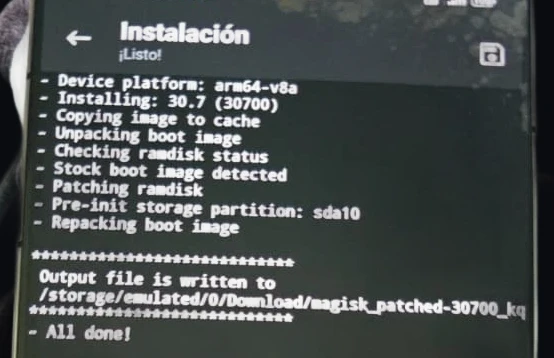
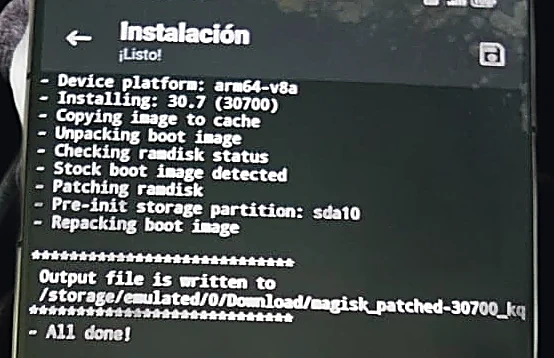
Break the guide into granular numbered sub-steps, sharpen all images
- Sharpen all 8 existing guide images (unsharp mask + higher-quality
  webp re-encode) so the on-screen text reads cleanly instead of soft.
- Add a new real screenshot of the toolbox's actual opening screen
  (the BFF splash + the real "path has spaces" error we hit), used as
  a worked snag/fix example in a new Fase 03 sub-step.
- Restructure Fases 03-06 into small numbered sub-steps (3.1, 3.2...)
  each with its own title, a "deberias ver" expectation line, and
  inline screenshots/snag-fix pairs where relevant, instead of long
  paragraph blocks — aimed at readers with no prior technical context.
- Drop loading="lazy" on guide images (images are small; removes any
  ambiguity about whether a given screenshot has rendered yet).

diff --git a/src/pages/RootRedMagic11Pro.jsx b/src/pages/RootRedMagic11Pro.jsx
@@ -10,14 +10,30 @@ import magiskSuperuser from '../assets/redmagic-guide/magisk-superuser.webp'
 import powershellRoot from '../assets/redmagic-guide/powershell-root.webp'
 import homeBooted from '../assets/redmagic-guide/home-booted.webp'
 import toolboxSession from '../assets/redmagic-guide/toolbox-session.webp'
+import toolboxOpening from '../assets/redmagic-guide/toolbox-opening.webp'
 
 // Foto real con su etiqueta, para las capturas del proceso (no mockups).
 function Shot({ src, alt, caption, wide }) {
   return (
     <figure className={`rm-shot${wide ? ' wide' : ''}`}>
-      <img src={src} alt={alt} loading="lazy" />
+      <img src={src} alt={alt} />
       {caption && <figcaption>{caption}</figcaption>}
     </figure>
+  )
+}
+
+// Tarjeta de sub-paso numerado (ej. "3.1"), para desglosar una fase en acciones
+// chicas y concretas en vez de un bloque largo de texto.
+function SubStep({ n, title, children, expect }) {
+  return (
+    <div className="rm-substep">
+      <div className="rm-substep-head">
+        <span className="rm-substep-num">{n}</span>
+        <span className="rm-substep-title">{title}</span>
+      </div>
+      {children}
+      {expect && <div className="rm-expect"><b>Deberías ver:</b><span>{expect}</span></div>}
+    </div>
   )
 }
 
@@ -131,14 +147,37 @@ export default function RootRedMagic11Pro() {
 
         <section className="rm-phase" id="fase-3">
           <div className="rm-phase-head"><span className="rm-phase-num">03</span><div><h2>El primer intento (y por que probablemente falle)</h2><p className="sub">Esto nos paso a nosotros — es la parte que nadie te explica</p></div></div>
-          <p>La herramienta comunitaria para este modelo es <strong>ZTE Family Toolbox</strong> (ver Recursos). Tiene un menu con la opcion <code className="mono">0. 解锁BL</code> (Desbloquear Bootloader). Si tu build es reciente, muy probablemente va a terminar asi:</p>
-          <Term label="ZTE Family Toolbox">
-            刷入解锁程序...{'\n'}设置自动恢复出厂...{'\n'}<span className="fail">解锁失败。请加交流群反馈。</span>
-          </Term>
+          <p>La herramienta comunitaria para este modelo es <strong>ZTE Family Toolbox</strong> (ver seccion de Recursos, mas abajo, para el enlace). Vamos paso por paso con lo que vas a ver en pantalla:</p>
+
+          <div className="rm-substeps">
+            <SubStep n="3.1" title="Descomprime y abre el programa" expect="Una ventana negra con un logo hecho de texto (BFF) y un mensaje en chino.">
+              <p>Descomprime el <code className="mono">.7z</code> que descargaste y haz doble clic en el archivo <code className="mono">中兴家族工具箱.bat</code> (el icono con engranaje azul). Se abre una consola negra.</p>
+              <Shot src={toolboxOpening} alt="Ventana de inicio del ZTE Family Toolbox mostrando el logo BFF y un error de ruta con espacios" caption="Esto es lo primero que vas a ver al abrirlo." />
+              <div className="rm-snagfix">
+                <div className="line" />
+                <div className="boxes">
+                  <div className="rm-box snag"><span className="tag">Traba comun aqui mismo</span><p>Si la ventana se cierra sola o dice <code className="mono">工具箱路径中不允许有空格或英文括号</code> (&quot;la ruta no puede tener espacios&quot;), es porque la carpeta esta en una ruta con espacios — por ejemplo &quot;Mis Documentos&quot; o &quot;Nueva carpeta (2)&quot;.</p></div>
+                  <div className="rm-box fix"><span className="tag">Solucion</span><p>Mueve toda la carpeta del toolbox a una ruta corta y sin espacios, por ejemplo <code className="mono">C:\ZTE\</code>, y abrelo de nuevo desde ahi.</p></div>
+                </div>
+              </div>
+            </SubStep>
+
+            <SubStep n="3.2" title="Elige tu modelo de telefono" expect="Un menu numerado con varios modelos de RedMagic/Nubia. Escribe el numero del tuyo y presiona Enter.">
+              <p>El programa pregunta que telefono tienes. Para el REDMAGIC 11 Pro (NX809J), busca la linea que diga algo como <code className="mono">骁龙8E5 红魔11系列</code> (Snapdragon 8 Elite Gen5, serie RedMagic 11) — <strong>no</strong> elijas una que diga &quot;(不支持解锁)&quot; (no soporta desbloqueo), esas son para otros modelos.</p>
+            </SubStep>
+
+            <SubStep n="3.3" title="Ejecuta la opcion de desbloqueo" expect="Al final, un mensaje en rojo que dice 解锁失败 (desbloqueo fallido) — si tu build es reciente, esto es normal, sigue a la Fase 04.">
+              <p>En el menu principal escribe <code className="mono">0</code> y presiona Enter (esa opcion dice <code className="mono">解锁BL</code> = Desbloquear Bootloader). Confirma las advertencias que aparezcan presionando cualquier tecla. Si tu build es reciente, termina asi:</p>
+              <Term label="ZTE Family Toolbox">
+                刷入解锁程序...{'\n'}设置自动恢复出厂...{'\n'}<span className="fail">解锁失败。请加交流群反馈。</span>
+              </Term>
+            </SubStep>
+          </div>
+
           <div className="rm-snagfix">
             <div className="line" />
             <div className="boxes">
-              <div className="rm-box snag"><span className="tag">La traba real</span><p>&quot;解锁失败&quot; = <strong>desbloqueo fallido</strong>. El exploit que usa la herramienta (llamado <code className="mono">efisp</code>) depende de un error en el bootloader que Nubia <strong>ya corrigio en firmwares posteriores a la version 11.0.18</strong>. Si tu build es mas nuevo que eso — y casi todos los telefonos vendidos hoy lo son — el ataque simplemente no tiene con que funcionar. No es que lo hagas mal: la vulnerabilidad ya no esta en tu bootloader actual.</p></div>
+              <div className="rm-box snag"><span className="tag">La traba real (la del paso 3.3)</span><p>&quot;解锁失败&quot; = <strong>desbloqueo fallido</strong>. El exploit que usa la herramienta (llamado <code className="mono">efisp</code>) depende de un error en el bootloader que Nubia <strong>ya corrigio en firmwares posteriores a la version 11.0.18</strong>. Si tu build es mas nuevo que eso — y casi todos los telefonos vendidos hoy lo son — el ataque simplemente no tiene con que funcionar. No es que lo hagas mal: la vulnerabilidad ya no esta en tu bootloader actual.</p></div>
               <div className="rm-box fix"><span className="tag">La solucion</span><p>No hace falta reinstalar todo el sistema. Solo una particion pequenisima — el <code className="mono">abl</code> (menos de 300 KB) — necesita volver a una version vieja que si tenga el error. El resto del telefono se queda exactamente como esta. Fase 04.</p></div>
             </div>
           </div>
@@ -146,52 +185,84 @@ export default function RootRedMagic11Pro() {
 
         <section className="rm-phase" id="fase-4">
           <div className="rm-phase-head"><span className="rm-phase-num">04</span><div><h2>La solucion: downgrade quirurgico del ABL</h2><p className="sub">La parte que te ahorra el dinero que cobran los &quot;servicios&quot;</p></div></div>
-          <p><strong>Paso A — Conseguir el firmware viejo, de la fuente oficial.</strong> Nubia no lo anuncia, pero su servidor de descargas sigue sirviendo versiones antiguas si conoces la URL exacta (ver Recursos). Para nuestra region (Europa/EEA) usamos la version <code className="mono">11.0.16MR1_EA</code> — cualquier version 11.0.18 o anterior sirve.</p>
-          <p><strong>Paso B — Extraer solo la particion abl.</strong> El firmware viene como un <code className="mono">update.zip</code> con un <code className="mono">payload.bin</code> adentro (formato estandar de Android). No hace falta descomprimir los 9 GB enteros a mano: <strong>payload-dumper-go</strong> saca una sola particion en segundos.</p>
-          <Term label="PowerShell — PC" copy={'payload-dumper-go.exe -p abl -o C:\\OldAbl payload.bin'}>
-            <span className="prompt-char">PS&gt;</span> <span className="cmd">payload-dumper-go.exe -p abl -o C:\OldAbl payload.bin</span>{'\n'}abl (242 kB)  [=======================================] 100%
-          </Term>
-          <p><strong>Paso C — Flashear ese abl.img viejo, via modo 9008 (EDL).</strong> Esto NO se puede hacer con el bootloader actual bloqueado usando fastboot normal — por eso se usa EDL, un modo de bajo nivel del propio chip Qualcomm que no depende de Android ni de si el bootloader esta bloqueado. Desde ZTE Family Toolbox, opcion <code className="mono">12. 刷入任意分区</code> (flashear particion especifica), escribe el nombre de la particion y selecciona tu <code className="mono">abl.img</code> viejo. Repite para <code className="mono">abl_a</code> y <code className="mono">abl_b</code> (el telefono tiene dos copias, slot A y B).</p>
-          <div className="rm-callout">
-            <span className="tag">Como entrar a modo EDL</span>
-            <p>Con el telefono encendido y conectado: <code className="mono">adb reboot edl</code>. La pantalla se queda completamente negra — asi se ve EDL, sin interfaz. Si el PC no lo reconoce, instala el driver Qualcomm oficial (Fase 01) y revisa el Administrador de dispositivos: debe aparecer como &quot;Qualcomm HS-USB QDLoader 9008&quot;.</p>
+          <p>Esto son 3 pasos chicos. No hace falta reinstalar todo el telefono — solo movemos una pieza minuscula (menos de 300 KB) a una version anterior que si tiene el error que el exploit necesita.</p>
+
+          <div className="rm-substeps">
+            <SubStep n="4.1" title="Descarga el firmware viejo, de la fuente oficial" expect="Un archivo update.zip de varios GB descargandose desde rom.download.nubia.com.">
+              <p>Nubia no lo anuncia en su pagina, pero su servidor sigue sirviendo versiones antiguas si conoces la URL exacta (esta en la seccion Recursos, al final). Para la region Europa/EEA usamos la version <code className="mono">11.0.16MR1_EA</code> — cualquier version <strong>11.0.18 o anterior</strong> sirve igual.</p>
+            </SubStep>
+
+            <SubStep n="4.2" title="Extrae solo la pieza que necesitas (abl.img)" expect="abl (242 kB) [=====...] 100% — una carpeta nueva con un archivo abl.img adentro.">
+              <p>El firmware viene como un <code className="mono">update.zip</code> con un <code className="mono">payload.bin</code> adentro (formato estandar de Android). No hace falta descomprimir los varios GB enteros a mano: la herramienta <strong>payload-dumper-go</strong> saca una sola pieza en segundos.</p>
+              <Term label="PowerShell — PC" copy={'payload-dumper-go.exe -p abl -o C:\\OldAbl payload.bin'}>
+                <span className="prompt-char">PS&gt;</span> <span className="cmd">payload-dumper-go.exe -p abl -o C:\OldAbl payload.bin</span>{'\n'}abl (242 kB)  [=======================================] 100%
+              </Term>
+            </SubStep>
+
+            <SubStep n="4.3" title="Flashea ese abl.img viejo, via modo 9008 (EDL)" expect="刷入完成 (flasheo completado) en la ventana del toolbox, dos veces (una por cada slot)">
+              <p>Esto <strong>no</strong> se puede hacer con fastboot normal mientras el bootloader sigue bloqueado — por eso usamos EDL, un modo de bajisimo nivel del propio chip Qualcomm que no depende de Android ni de si el bootloader esta bloqueado.</p>
+              <div className="rm-callout">
+                <span className="tag">Primero, entra a modo EDL</span>
+                <p>Con el telefono encendido y conectado: <code className="mono">adb reboot edl</code>. La pantalla se queda completamente negra — asi se ve EDL, sin interfaz. Si el PC no lo reconoce, instala el driver Qualcomm oficial (Fase 01) y revisa el Administrador de dispositivos: debe aparecer como &quot;Qualcomm HS-USB QDLoader 9008&quot;.</p>
+              </div>
+              <p>Ya en el menu principal del toolbox, escribe <code className="mono">12</code> y Enter (esa opcion dice <code className="mono">刷入任意分区</code> = flashear particion especifica). Cuando pida el nombre, escribe <code className="mono">abl_a</code> y selecciona tu <code className="mono">abl.img</code> viejo. Cuando termine, el programa vuelve a preguntar el nombre de particion — repite todo escribiendo <code className="mono">abl_b</code> esta vez (el telefono guarda dos copias, slot A y B, hay que reemplazar ambas).</p>
+              <p>Asi se ve el toolbox corriendo esta parte en la practica — fijate que primero detecta el telefono, pide seleccionar el archivo, y confirma con <code className="mono">刷入完成</code>:</p>
+              <Shot src={toolboxSession} alt="Ventana de ZTE Family Toolbox mostrando el procedimiento completo de desbloqueo en chino, con progreso en tiempo real" caption="Captura real de la herramienta, sin editar." />
+            </SubStep>
           </div>
-          <p>Asi se ve el toolbox corriendo el proceso completo, de principio a fin — deteccion del telefono, respaldo de <code className="mono">efisp</code>, flasheo, y la pregunta final sobre la advertencia amarilla:</p>
-          <Shot src={toolboxSession} alt="Ventana de ZTE Family Toolbox mostrando el procedimiento completo de desbloqueo en chino, con progreso en tiempo real" caption="Captura real de la herramienta — asi se ve la secuencia completa." />
         </section>
 
         <section className="rm-phase" id="fase-5">
           <div className="rm-phase-head"><span className="rm-phase-num">05</span><div><h2>Reintentar el desbloqueo</h2><p className="sub">Ahora si deberia funcionar</p></div></div>
-          <p>Con el <code className="mono">abl</code> viejo ya en el telefono, vuelve al menu principal de ZTE Family Toolbox y corre de nuevo la opcion <code className="mono">0. 解锁BL</code>. El proceso va a borrar todos los datos (ya tienes tu respaldo) y reiniciar varias veces solo. No desconectes el cable en ningun momento.</p>
-          <p>La confirmacion real no es un mensaje bonito — es este campo, visible al entrar en modo fastboot (<code className="mono">adb reboot bootloader</code>):</p>
-          <div className="rm-shot-pair">
-            <Shot src={fastbootLocked} alt="FastBoot Mode mostrando DEVICE STATE - locked, antes del proceso" caption="Antes: DEVICE STATE - locked" />
-            <Shot src={fastbootUnlocked} alt="FastBoot Mode mostrando DEVICE STATE - unlocked, despues del proceso" caption="Despues: DEVICE STATE - unlocked" />
+
+          <div className="rm-substeps">
+            <SubStep n="5.1" title="Corre la Opcion 0 de nuevo" expect="El telefono se reinicia varias veces solo. No lo toques, no desconectes el cable.">
+              <p>Con el <code className="mono">abl</code> viejo ya en el telefono (fin de la Fase 04), vuelve al menu principal de ZTE Family Toolbox y corre de nuevo la opcion <code className="mono">0. 解锁BL</code> — exactamente igual que en el Paso 3.3. Este proceso <strong>va a borrar todos los datos</strong> (ya tienes tu respaldo de la Fase 02).</p>
+            </SubStep>
+
+            <SubStep n="5.2" title="Confirma el resultado — no te quedes con la duda" expect="DEVICE STATE - unlocked (en rojo o verde, da igual el color, lo que importa es la palabra).">
+              <p>La confirmacion real no es un mensaje bonito en la pantalla — es este campo exacto, visible al entrar en modo fastboot (<code className="mono">adb reboot bootloader</code>):</p>
+              <div className="rm-shot-pair">
+                <Shot src={fastbootLocked} alt="FastBoot Mode mostrando DEVICE STATE - locked, antes del proceso" caption="Antes: DEVICE STATE - locked" />
+                <Shot src={fastbootUnlocked} alt="FastBoot Mode mostrando DEVICE STATE - unlocked, despues del proceso" caption="Despues: DEVICE STATE - unlocked" />
+              </div>
+              <p>Si dice <code className="mono">unlocked</code>, listo — bootloader desbloqueado de verdad, no supuesto. Durante el arranque tambien deberia aparecer un aviso de advertencia (normal, no es error):</p>
+              <Shot src={unlockWarning} alt="Pantalla de advertencia: the boot loader is unlocked and software integrity cannot be guaranteed" caption="Aviso de bootloader desbloqueado al encender — normal y esperado." />
+            </SubStep>
           </div>
-          <p>Si dice <code className="mono">unlocked</code>, listo — bootloader desbloqueado de verdad, no supuesto. Durante el arranque tambien deberia aparecer un aviso de advertencia (normal, no es error):</p>
-          <Shot src={unlockWarning} alt="Pantalla de advertencia: the boot loader is unlocked and software integrity cannot be guaranteed" caption="Aviso de bootloader desbloqueado al encender — normal y esperado." />
         </section>
 
         <section className="rm-phase" id="fase-6">
           <div className="rm-phase-head"><span className="rm-phase-num">06</span><div><h2>Root con Magisk</h2><p className="sub">Con el bootloader ya desbloqueado, esta parte es estandar</p></div></div>
-          <p>Tu REDMAGIC usa particion <code className="mono">init_boot</code> separada (tipico desde Android 13+), asi que se parchea esa, no el <code className="mono">boot.img</code> completo. Sacala del respaldo de particiones que hiciste en la Fase 02, instala <strong>Magisk</strong> (APK oficial, ver Recursos), y desde la app: <em>Install → Select and Patch a File</em>, elige <code className="mono">init_boot_a.img</code>.</p>
-          <Shot src={magiskAlldone} alt="App Magisk mostrando All done tras parchear init_boot_a.img" caption="Magisk termina el parcheo en segundos — queda guardado en Download." />
-          <div className="rm-snagfix">
-            <div className="line" />
-            <div className="boxes">
-              <div className="rm-box snag"><span className="tag">Otra traba</span><p><code className="mono">fastboot flash init_boot_a imagen.img</code> puede fallar con <code className="mono">FAILED (remote: &apos;unknown command&apos;)</code>. El <code className="mono">abl</code> viejo que pusiste tiene un fastboot mas limitado que no soporta bien ese comando.</p></div>
-              <div className="rm-box fix"><span className="tag">La solucion</span><p>Flashea la imagen parcheada de Magisk <strong>por el mismo camino EDL</strong> que usaste para el abl (opcion 12 del toolbox, con el telefono en modo 9008). Es mas confiable que el fastboot estandar en este escenario. Hazlo en ambos slots: <code className="mono">init_boot_a</code> e <code className="mono">init_boot_b</code>.</p></div>
-            </div>
-          </div>
-          <p>Reinicia normal. Verificacion final:</p>
-          <Term label="PowerShell — PC" copy="adb shell su -c id">
-            <span className="prompt-char">PS&gt;</span> <span className="cmd">adb shell su -c id</span>{'\n'}uid=0(root) gid=0(root) groups=0(root) context=u:r:magisk:s0
-          </Term>
-          <p>Si ves <code className="mono">uid=0(root)</code>, terminaste. Acepta el dialogo de permiso que aparece en pantalla la primera vez.</p>
-          <Shot src={powershellRoot} alt="Terminal PowerShell mostrando la salida real uid=0(root) gid=0(root)" caption="Nuestra propia terminal, sin editar — asi se ve cuando funciona." wide />
-          <div className="rm-shot-pair">
-            <Shot src={magiskSuperuser} alt="App Magisk, pestana Superusuario, con Shell autorizado" caption="Permiso root concedido en Magisk" />
-            <Shot src={homeBooted} alt="Pantalla de inicio del REDMAGIC ya rooteado, con apps instaladas" caption="El telefono, funcionando normal despues de todo" />
+          <p>Tu REDMAGIC usa particion <code className="mono">init_boot</code> separada (tipico desde Android 13+), asi que se parchea esa, no el <code className="mono">boot.img</code> completo.</p>
+
+          <div className="rm-substeps">
+            <SubStep n="6.1" title="Parchea init_boot_a.img con Magisk" expect="All done! y un archivo nuevo en la carpeta Download del telefono.">
+              <p>Saca <code className="mono">init_boot_a.img</code> del respaldo de particiones que hiciste en la Fase 02, pasalo al telefono, instala <strong>Magisk</strong> (APK oficial, ver Recursos), y desde la app: <em>Install → Select and Patch a File</em>, elige ese archivo.</p>
+              <Shot src={magiskAlldone} alt="App Magisk mostrando All done tras parchear init_boot_a.img" caption="Magisk termina el parcheo en segundos — queda guardado en Download." />
+            </SubStep>
+
+            <SubStep n="6.2" title="Flashea la imagen parcheada — por EDL, no por fastboot" expect="刷入完成 (flasheo completado), igual que en el Paso 4.3.">
+              <div className="rm-snagfix">
+                <div className="line" />
+                <div className="boxes">
+                  <div className="rm-box snag"><span className="tag">Traba comun aqui</span><p><code className="mono">fastboot flash init_boot_a imagen.img</code> puede fallar con <code className="mono">FAILED (remote: &apos;unknown command&apos;)</code>. El <code className="mono">abl</code> viejo que pusiste tiene un fastboot mas limitado que no soporta bien ese comando.</p></div>
+                  <div className="rm-box fix"><span className="tag">La solucion</span><p>Flashea la imagen parcheada de Magisk <strong>por el mismo camino EDL</strong> que usaste para el abl (opcion 12 del toolbox, con el telefono en modo 9008). Hazlo en ambos slots: <code className="mono">init_boot_a</code> e <code className="mono">init_boot_b</code>.</p></div>
+                </div>
+              </div>
+            </SubStep>
+
+            <SubStep n="6.3" title="Reinicia normal y verifica" expect="uid=0(root) — eso confirma que el acceso root esta funcionando de verdad.">
+              <Term label="PowerShell — PC" copy="adb shell su -c id">
+                <span className="prompt-char">PS&gt;</span> <span className="cmd">adb shell su -c id</span>{'\n'}uid=0(root) gid=0(root) groups=0(root) context=u:r:magisk:s0
+              </Term>
+              <p>Acepta el dialogo de permiso que aparece en la pantalla del telefono la primera vez que corras este comando.</p>
+              <Shot src={powershellRoot} alt="Terminal PowerShell mostrando la salida real uid=0(root) gid=0(root)" caption="Nuestra propia terminal, sin editar — asi se ve cuando funciona." wide />
+              <div className="rm-shot-pair">
+                <Shot src={magiskSuperuser} alt="App Magisk, pestana Superusuario, con Shell autorizado" caption="Permiso root concedido en Magisk" />
+                <Shot src={homeBooted} alt="Pantalla de inicio del REDMAGIC ya rooteado, con apps instaladas" caption="El telefono, funcionando normal despues de todo" />
+              </div>
+            </SubStep>
           </div>
         </section>
 

diff --git a/src/styles/redmagic-root.css b/src/styles/redmagic-root.css
@@ -49,6 +49,30 @@
 .rm-shot-pair .rm-shot { margin: 0; }
 @media (max-width: 560px) { .rm-shot-pair { grid-template-columns: 1fr; } }
 
+/* Sub-pasos dentro de una fase: cada uno es una tarjeta numerada e independiente,
+   para seguir "columna por columna" en vez de un bloque largo de texto. */
+.rm-substeps { display: flex; flex-direction: column; gap: 14px; margin: 20px 0; }
+.rm-substep {
+  border: 1px solid var(--border); background: var(--surface); border-radius: var(--radius-panel);
+  padding: 16px 18px;
+}
+.rm-substep-head { display: flex; align-items: baseline; gap: 10px; margin-bottom: 8px; }
+.rm-substep-num {
+  font-family: var(--font-display); font-weight: 700; font-size: 0.82rem; color: var(--accent2-strong);
+  background: var(--accent2-soft); border: 1px solid var(--accent2-line); border-radius: 999px;
+  padding: 2px 10px; white-space: nowrap;
+}
+.rm-substep-title { font-family: var(--font-display); font-weight: 600; font-size: 1rem; color: var(--text); }
+.rm-substep p { margin: 0 0 10px; color: var(--text-muted); font-size: 0.92rem; max-width: none; }
+.rm-substep p:last-child { margin-bottom: 0; }
+.rm-substep .rm-shot, .rm-substep .rm-term { margin: 10px 0 0; }
+.rm-expect {
+  display: flex; align-items: flex-start; gap: 8px; margin-top: 10px; padding: 10px 12px;
+  background: var(--green-chip, rgba(79,174,138,0.08)); border: 1px solid rgba(79,174,138,0.28);
+  border-radius: 8px; font-size: 0.86rem; color: var(--text-muted);
+}
+.rm-expect b { color: var(--positive); font-weight: 700; white-space: nowrap; }
+
 .rm-phase { margin: 56px 0; scroll-margin-top: 24px; }
 .rm-phase-head { display: flex; gap: 14px; align-items: flex-start; margin-bottom: 14px; }
 .rm-phase-num { font-family: var(--font-display); font-weight: 700; font-size: 1.4rem; color: var(--text-faint); min-width: 2.2ch; }
